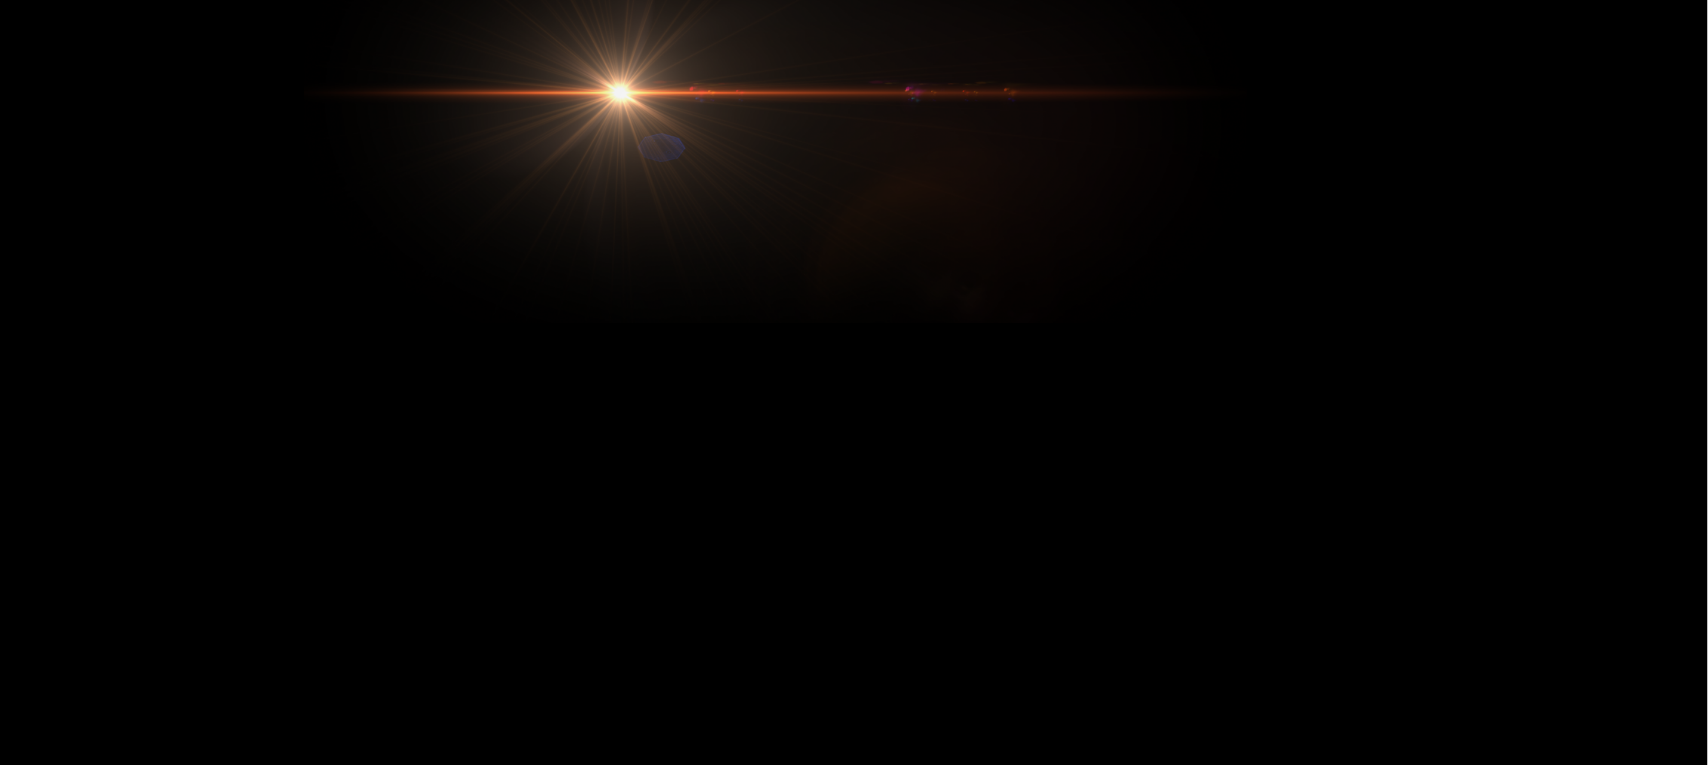
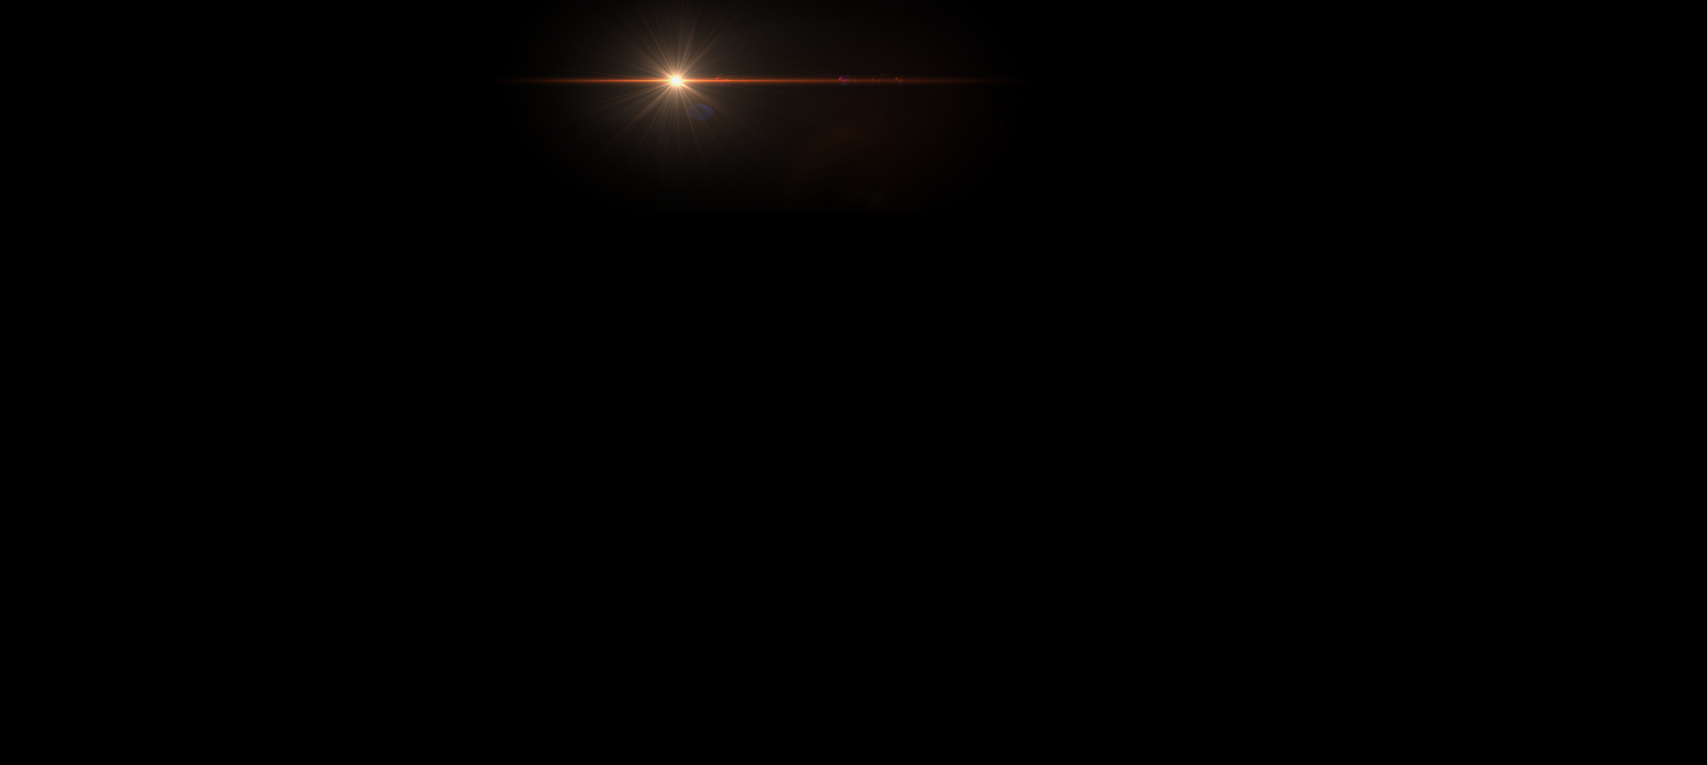
ajustes bonus exclusivos consultoria

Changed region(s): [[0.2172, 0.0, 0.6516, 0.3007]]

diff --git a/style.css b/style.css
@@ -2019,6 +2019,10 @@ html, body {
         font-size: 1.6rem;
     }
 
+    .consultoria-bonus {
+        padding-top: 40px;
+    }
+
     .consultoria-benefits-grid {
         grid-template-columns: 1fr;
     }
